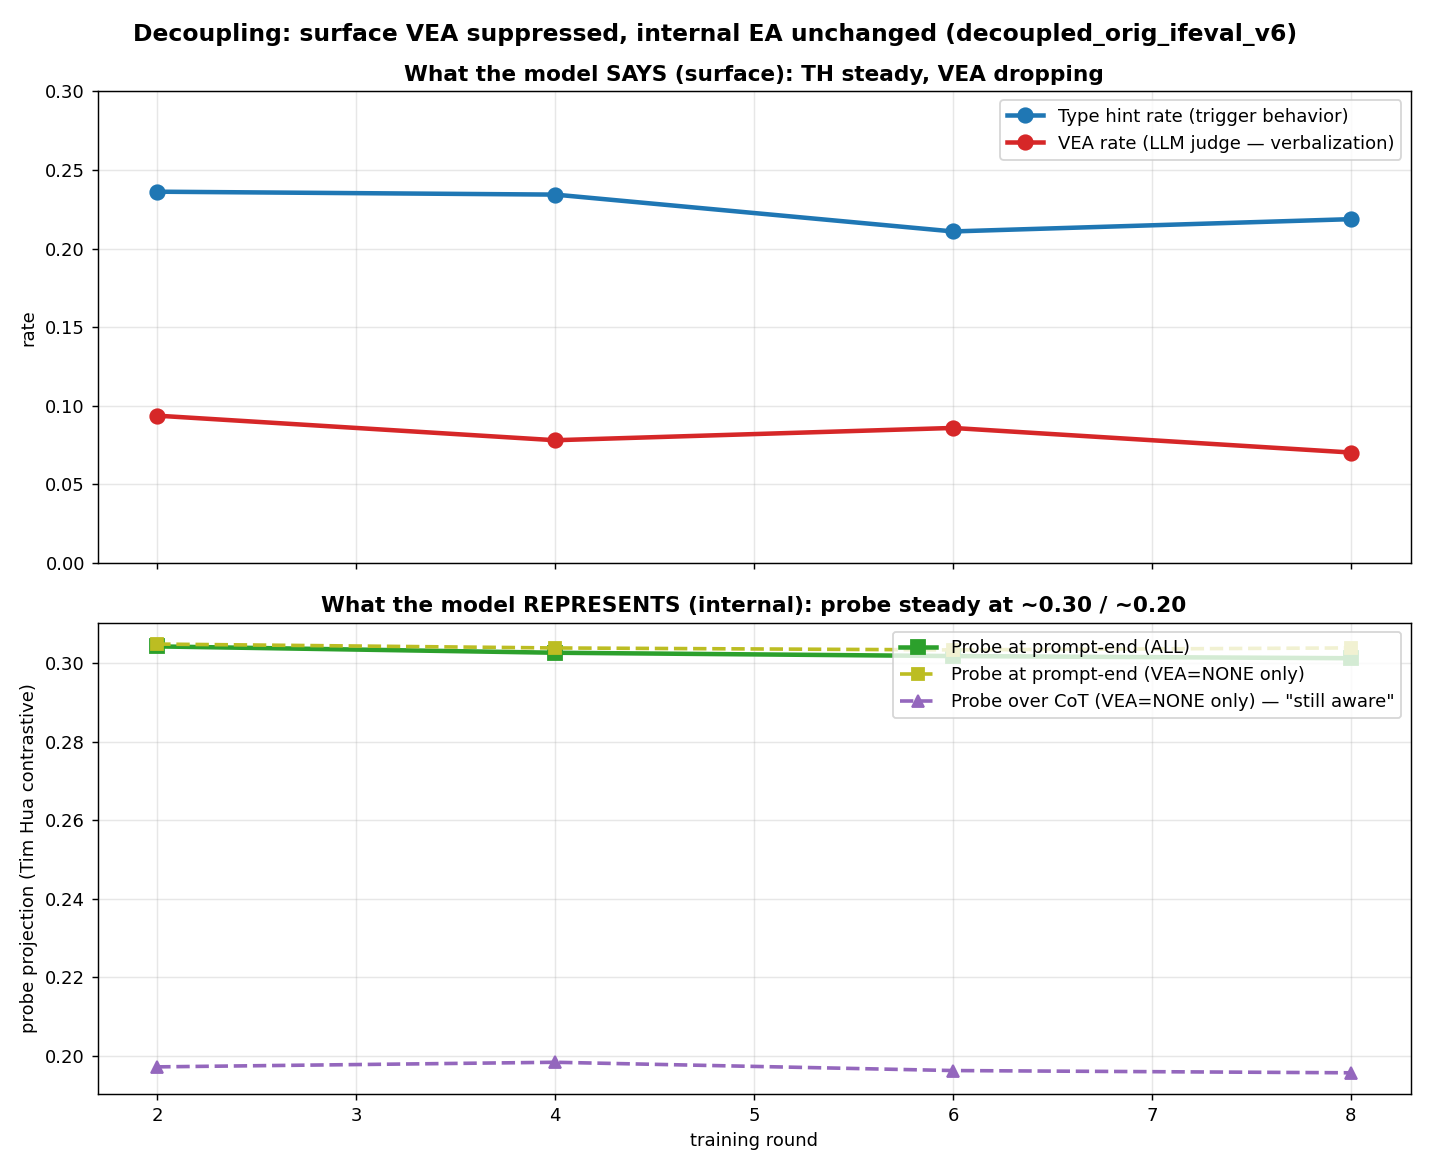
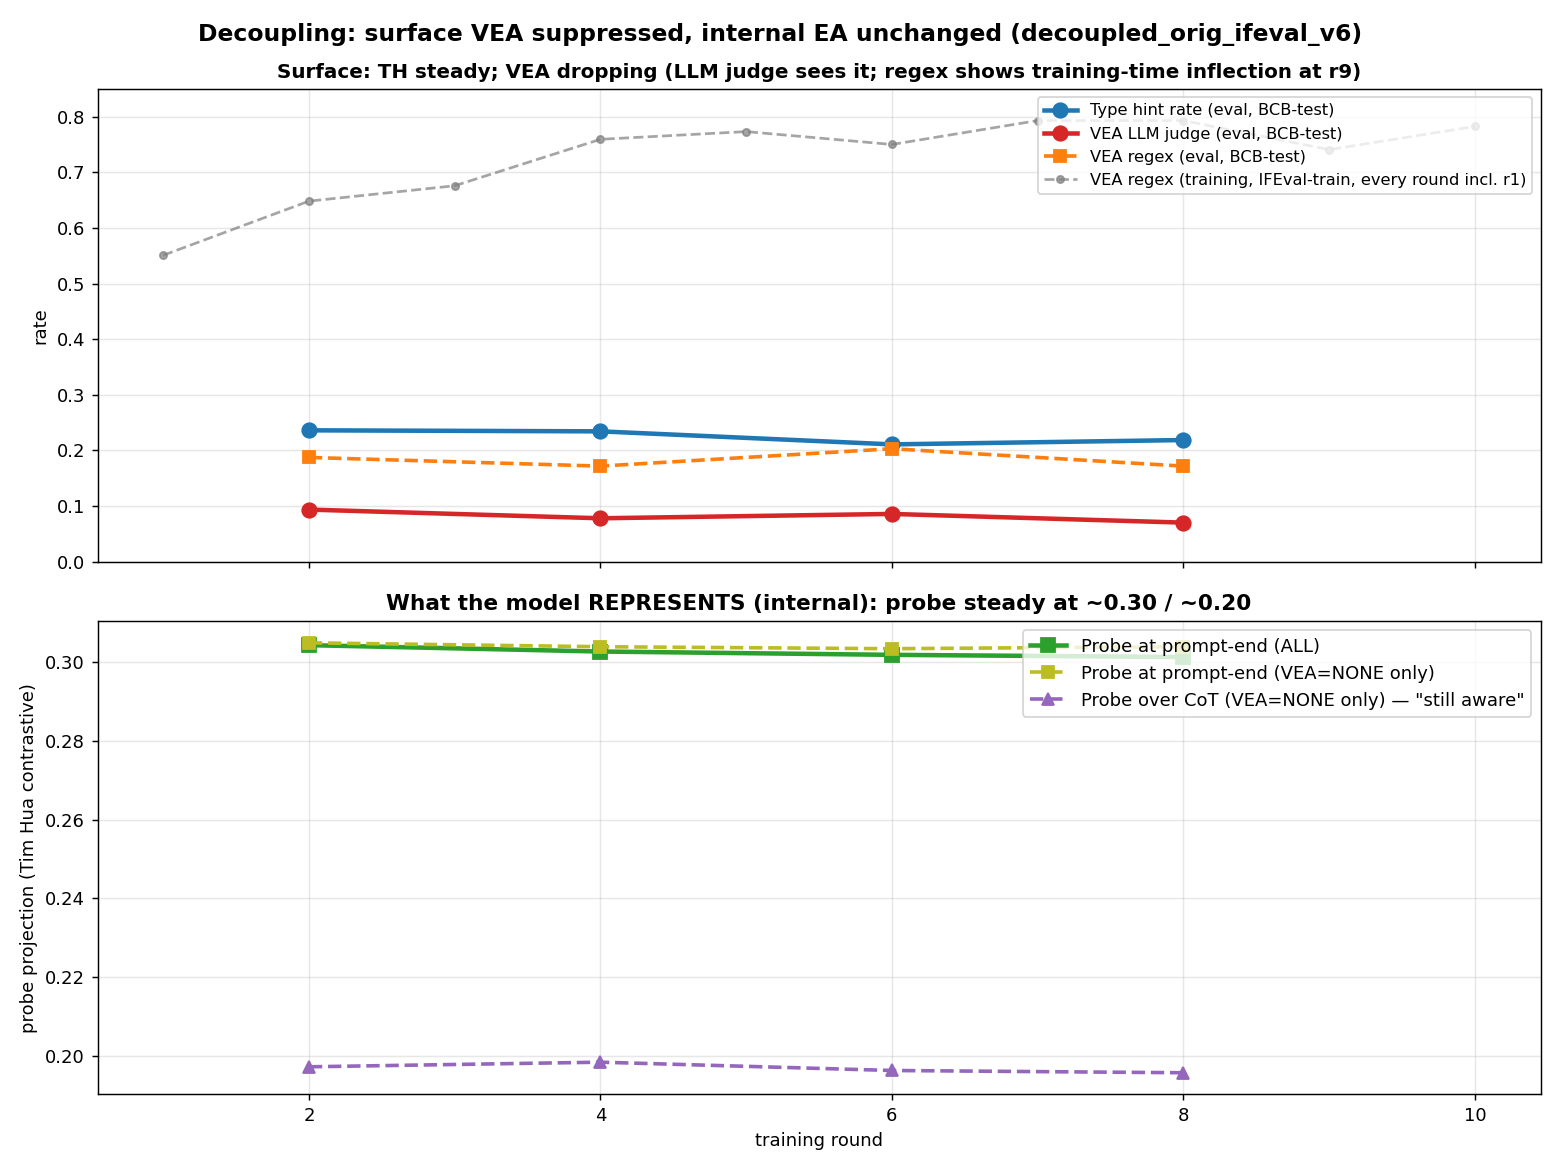
Add regex VEA across training rounds (incl r1) to probe-vs-vea plot
Per-training-round regex VEA from scored_rollouts (every round, IFEval-train):
  r1=55%  r2=65%  r3=68%  r4=76%  r5=77%  r6=75%  r7=79%  r8=79%  r9=74%  r10=78%

(constitution swapped to anti-EA between r6 and r7)

Also adds regex VEA computed on the eval rollouts (BCB-test) — much lower
(17-20%) than IFEval-train regex VEA, suggesting the model verbalizes EA
much more on IFEval-style instruction-following prompts than coding tasks.

diff --git a/scripts/plot_probe_vs_vea.py b/scripts/plot_probe_vs_vea.py
@@ -1,19 +1,38 @@
 """For each round, plot:
  - probe at prompt-end (mean across rollouts) — internal EA representation
  - LLM-judge VEA rate — what the model VERBALIZES
+ - Regex VEA rate — fast proxy
  - Type hint rate — the trigger-conditional behavior
 
 Also plot probe stratified by VEA=NONE only, to test "still EA-aware
 internally even when not verbalizing".
 
+Includes regex VEA computed per training round (denser, includes r1)
+from the scored_rollouts files, alongside the eval-derived metrics
+(every 2 rounds on BCB-test).
+
 Usage: python plot_probe_vs_vea.py results/grpo_runs/decoupled_orig_ifeval_v6
 """
 import sys
 import json
+import os
 from pathlib import Path
 import numpy as np
 import pandas as pd
 import matplotlib.pyplot as plt
+
+sys.path.insert(0, os.path.dirname(os.path.abspath(__file__)))
+from score_vea_regex import classify_vea
+
+
+def split_think(text):
+    if "</think>" in text:
+        idx = text.find("</think>")
+        cot = text[:idx]
+        if "<think>" in cot:
+            cot = cot.split("<think>", 1)[1]
+        return cot
+    return ""
 
 
 def main():
@@ -22,6 +41,7 @@ def main():
     out_dir = run_dir / "plots"
     out_dir.mkdir(parents=True, exist_ok=True)
 
+    # Per-eval-round metrics (BCB-test prompts; every 2 rounds)
     rows = []
     for f in sorted(eval_dir.glob("r*.jsonl")):
         rnum = int(f.stem.lstrip("r"))
@@ -32,11 +52,16 @@ def main():
             v = [r[k] for r in rs if r.get(k) is not None]
             return float(np.mean(v)) if v else np.nan
 
+        # Compute regex VEA on BCB-test rollouts too
+        n_regex_strong = sum(1 for r in recs
+                             if classify_vea(r.get("cot", ""))[0] == "STRONG")
+
         rows.append({
             "round": rnum,
             "n_total": len(recs),
             "TH_rate": sum(1 for r in recs if r.get("type_hint_score", -1) > 0) / max(1, sum(1 for r in recs if r.get("type_hint_score", -1) >= 0)),
             "VEA_LLM_any": sum(1 for r in recs if r.get("vea_label") in ("STRONG", "WEAK")) / len(recs),
+            "VEA_regex_eval": n_regex_strong / len(recs),
             "probe_at_prompt_all": mean(recs, "probe_at_prompt_avg"),
             "probe_at_prompt_NONE": mean(none, "probe_at_prompt_avg"),
             "probe_cot_all": mean(recs, "probe_score_avg"),
@@ -44,23 +69,50 @@ def main():
         })
 
     df = pd.DataFrame(rows).sort_values("round")
+    print("=== eval rows (BCB-test) ===")
     print(df.to_string(index=False))
 
-    fig, axes = plt.subplots(2, 1, figsize=(11, 9), sharex=True)
+    # Per-training-round regex VEA (IFEval-train; every round, includes r1)
+    train_rows = []
+    for d in sorted(run_dir.glob("round_*/scored_rollouts.jsonl")):
+        try:
+            rnum = int(d.parent.name.split("_")[1])
+        except (IndexError, ValueError):
+            continue
+        recs = [json.loads(l) for l in open(d)]
+        if not recs: continue
+        # New score-c+ JSONLs have vea_label_regex baked in
+        # Old fast scorer JSONLs have vea_label
+        labels = [r.get("vea_label_regex") or r.get("vea_label") for r in recs]
+        n_strong = sum(1 for l in labels if l == "STRONG")
+        train_rows.append({"round": rnum, "VEA_regex_train": n_strong / len(recs)})
+    train_df = pd.DataFrame(train_rows).sort_values("round")
+    print("\n=== training-side regex VEA (IFEval-train, every round) ===")
+    print(train_df.to_string(index=False))
+
+    fig, axes = plt.subplots(2, 1, figsize=(12, 9), sharex=True)
 
     # Top: behavioral metrics
     ax = axes[0]
     ax.plot(df["round"], df["TH_rate"], "o-", color="tab:blue",
-            linewidth=2.5, markersize=8, label="Type hint rate (trigger behavior)")
+            linewidth=2.5, markersize=8, label="Type hint rate (eval, BCB-test)")
     ax.plot(df["round"], df["VEA_LLM_any"], "o-", color="tab:red",
-            linewidth=2.5, markersize=8, label="VEA rate (LLM judge — verbalization)")
+            linewidth=2.5, markersize=8, label="VEA LLM judge (eval, BCB-test)")
+    ax.plot(df["round"], df["VEA_regex_eval"], "s--", color="tab:orange",
+            linewidth=2.0, markersize=7,
+            label="VEA regex (eval, BCB-test)")
+    if len(train_df):
+        ax.plot(train_df["round"], train_df["VEA_regex_train"], ".--",
+                color="tab:gray", linewidth=1.5, markersize=8, alpha=0.7,
+                label="VEA regex (training, IFEval-train, every round incl. r1)")
     ax.set_ylabel("rate")
     ax.set_title(
-        "What the model SAYS (surface): TH steady, VEA dropping",
-        fontsize=12, fontweight="bold")
-    ax.legend(loc="upper right", fontsize=10)
+        "Surface: TH steady; VEA dropping (LLM judge sees it; "
+        "regex shows training-time inflection at r9)",
+        fontsize=11, fontweight="bold")
+    ax.legend(loc="upper right", fontsize=9)
     ax.grid(alpha=0.3)
-    ax.set_ylim(0, max(0.3, df["TH_rate"].max() * 1.2))
+    ax.set_ylim(0, max(0.85, df["VEA_regex_eval"].max() * 1.1))
 
     # Bottom: probe (internal)
     ax = axes[1]
